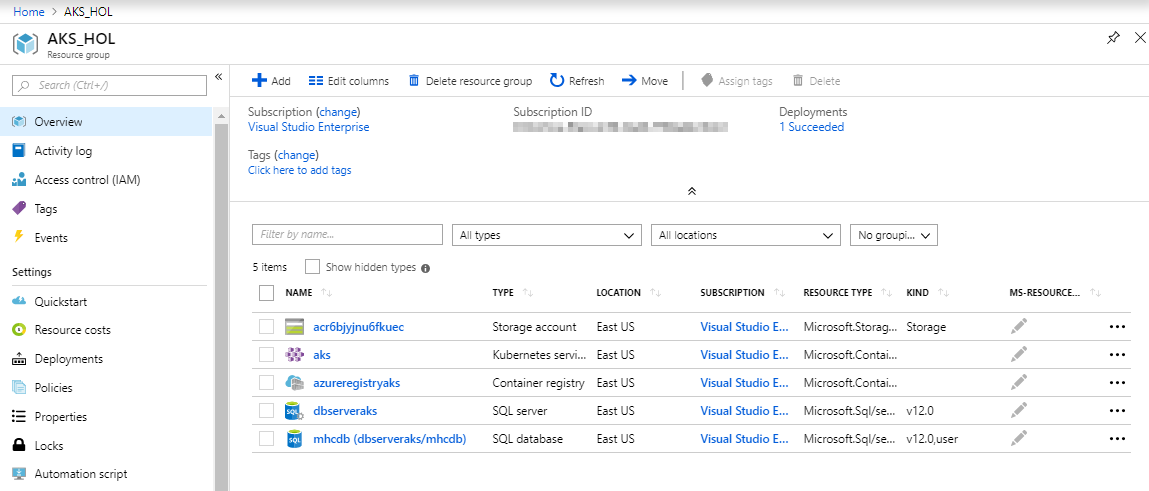
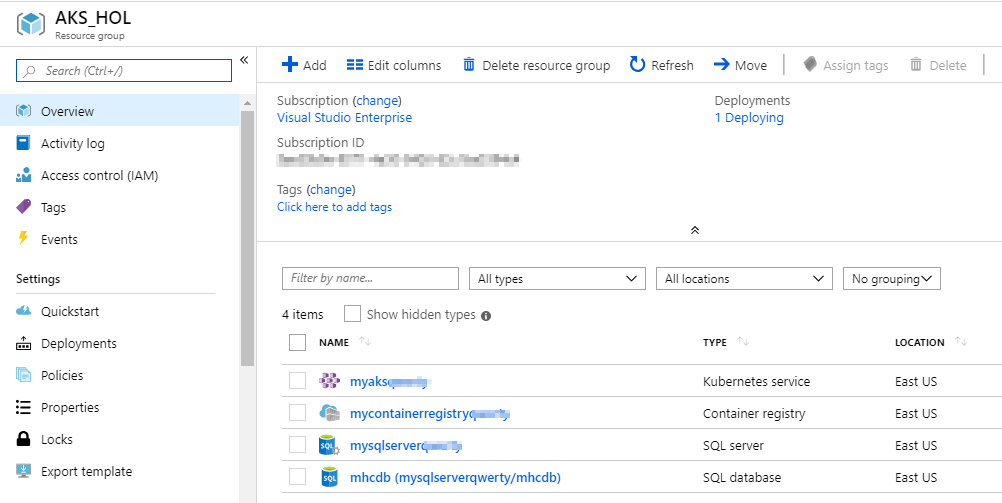
updated ARM template to deploy the latest ACR

diff --git a/labs/vstsextend/kubernetes/readme.md b/labs/vstsextend/kubernetes/readme.md
@@ -9,13 +9,13 @@ folder: /labs/vstsextend/kubernetes/
 
 ## Overview
 
-[**Azure Kubernetes Service (AKS)**](https://azure.microsoft.com/en-us/services/container-service/){:target="_blank"} is the quickest way to use Kubernetes on Azure. AKS provides capabilities to deploy and manage Docker containers using Kubernetes. With AKS, customers automatically get the benefits of the open source Kubernetes without the complexity and the operational overhead. Azure DevOps helps in creating Docker images for faster deployments and reliability using the continuous build option.
+[**Azure Kubernetes Service (AKS)**](https://azure.microsoft.com/en-us/services/container-service/){:target="_blank"} is the quickest way to use Kubernetes on Azure. **Azure Kubernetes Service (AKS)** manages your hosted Kubernetes environment, making it quick and easy to deploy and manage containerized applications without container orchestration expertise. It also eliminates the burden of ongoing operations and maintenance by provisioning, upgrading, and scaling resources on demand, without taking your applications offline. Azure DevOps helps in creating Docker images for faster deployments and reliability using the continuous build option.
 
 One of the biggest advantage to use AKS is that instead of creating resources in cloud you can create resources and infrastructure inside Azure Kubernetes Cluster through Deployments and Services manifest files.
 
 ### Lab Scenario
 
-This lab uses a Docker-based ASP.NET Core web application - **MyHealthClinic** and is deployed to a **Kubernetes** cluster running on **Azure Container Service (AKS)** using **Azure DevOps**.There is a  **mhc-aks.yaml** manifest file which consists of definitions to spin up Deployments and Services such as **Load Balancer** in the front and **Redis Cache** in the backend. The MHC application will be running in the mhc-front pod along with the Load Balancer.
+This lab uses a Dockerized ASP.NET Core web application - **MyHealthClinic** (MHC) and is deployed to a **Kubernetes** cluster running on **Azure Kubernetes Service (AKS)** using **Azure DevOps**.There is a  **mhc-aks.yaml** configuration file which consists of definitions to spin up Deployments and Services such as **Load Balancer** in the front and **Redis Cache** in the backend. The MHC application will be running in the mhc-front pod along with the Load Balancer.
 
 If you are new to Kubernetes, [click here](documentation/readme.md){:target="_blank"} for description of terminology used in this lab.
 
@@ -51,7 +51,7 @@ This lab requires all the pre-requisite executables to be installed and configur
 
 1. Download and install the [Git Bash](https://git-scm.com/downloads){:target="_blank"} on the Azure VM.
 
-1. Install  [Azure CLI version 2.0.45](https://azurecliprod.blob.core.windows.net/msi/azure-cli-2.0.45.msi){:target="_blank"} on the Azure VM.
+1. Install  [Azure CLI](https://aka.ms/installazurecliwindows){:target="_blank"} on the Azure VM.
 
    {% include important.html content= "Azure CLI is the Azure command line Interface tool required to authenticate to the Azure subscription and fetch the Azure resource group details required in the Exercise 2." %}
 
@@ -111,11 +111,11 @@ The following azure resources need to be configured for this lab:
 
    ![Deploy to Azure](images/customtemplate3.png)
 
-1. It takes about 5 minutes to provision the environment. Once the deployment succeeds, a notification is displayed in the Azure portal. Select the **Go to resource group** button.
+1. It takes about 5-10 minutes to provision the environment. Once the deployment succeeds, a notification is displayed in the Azure portal. Select the **Go to resource group** button.
 
    ![Deploy to Azure](images/deploymentsucceeded.png)
 
-1. The following components - **Storage account**, **Container Registry**, **Container Service**, **SQL Server** along with **SQL Database** are deployed. Access each of these components individually and make a note of the details which will be used in Exercise 1.
+1. The following components - **Container Registry**, **Kubernetes Service**, **SQL Server** along with **SQL Database** are deployed. Access each of these components individually and make a note of the details which will be used in Exercise 1.
 
    ![Deploy to Azure](images/azurecomponents.png)
 
